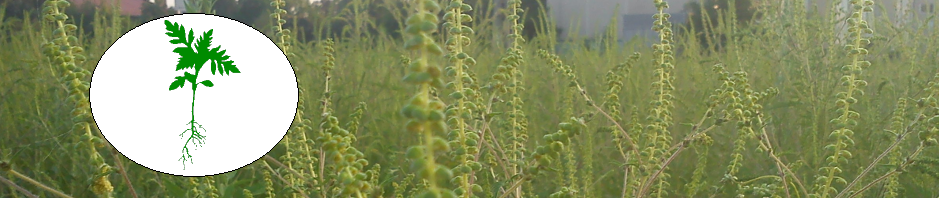
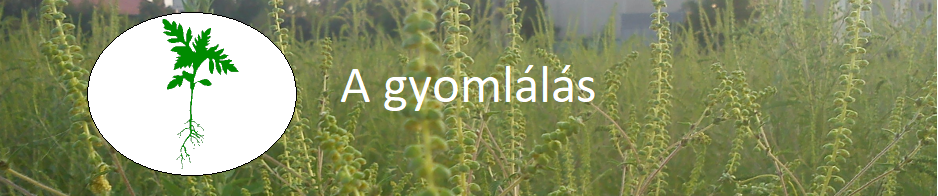
70 perces mentes-befejeztem

diff --git a/irtas.html b/irtas.html
@@ -1,48 +1,53 @@
 <!DOCTYPE html>
-<html lang="hu">
+ <html lang="hu">
 <head>
 <title>A parlagfűről</title>
-  <meta charset="utf-8"> 
- <link rel="stylesheet" href="parlagfu.css">  
+   <meta charset="utf-8"> 
+  <link rel="stylesheet" href="parlagfu.css">  
 
 </head>
 <body>
-   Előfordulása, Fejlődése, Terjedése, Parlagfű allergia, Megelőzés, Irtási módszerek
-   <table id="kulso">
-   
-             
-                   <tr>
-                       <td></td>
-                       <td></td>
-                       <td></td>
-                   </tr>
-                   <tr>
-                    <td></td>
-                    <td></td>
-                    <td></td>
-                </tr>
-                <tr>
-                    <td></td>
-                    <td></td>
-                    <td></td>
-                </tr>
-                <tr>
-                   <td></td>
-                   <td></td>
-                   <td></td>
-               </tr>
-               <tr>
-                   <td></td>
-                   <td></td>
-                   <td></td>
-               </tr>
-               <tr>
-                   <td></td>
-                   <td></td>
-                   <td></td>
-               </tr>
-               </table>
-       
+    
+    <table id="kulso">
+    
+              
+        <tr>
+            <td>
+                <table>
+                    <tr>
+                        <td colspan="6"><img src="cim.png" alt="cim" title="Kép a parlagfűről"></td>
+                        
+                        
 
- </body>
-</html>
+                    </tr>
+                    <tr>
+                        <td class="ketto">Előfordulása</td>
+                        <td class="ketto">Fejlődése</td>
+                        <td class="ketto">Terjedése</td>
+                        <td class="ketto">Parlagfű allergia</td>
+                        <td class="ketto">Megelőzés</td>
+                        <td class="ketto">Irtási módszerek</td>
+                    </tr>
+                    <tr>
+                        <td colspan="6">
+                            <h1>Irtási módszerek</h1>
+A parlagfű irtását folyamatosan kell végezni. A növényt a virágzása előtt kell elpusztítani, hogy ne szórhasson virágport, és ne érlelhessen termést.
+<ul>
+<li>Gyomlálás: A virágzó parlagfű irtását ne bízzuk gyerekekre, mert az erős pollenkoncentráció a levegőben kiválthatja a lappangó allergiát. Kerülni kell a virágzó növény közvetlen érintését, mert az is allergiás reakciót válthat ki. Ilyenkor a kézi irtást kesztyűben kell végezni.</li>
+    <li>Kaszálás: A környezetet és a költségeket is leginkább kímélő eljárás. A fiatal növényeket tömeges megjelenésük után, minél előbb tanácsos kaszálni. A talajszinten a gyökérnyaki résznél kell a növény szárát elvágni. Ez a legbiztosabb módszer, mivel a növények nem tudnak újrahajtani. Ha ezzel elkéstünk, az egyszeri kaszálás már nem eredményezi a parlagfű kiirtását, mert a növény az alacsonyan elhelyezkedő oldalrügyeiből 3-4 oldalhajtást nevel, és pár hét múlva újra virágba borul. Általában három kaszálás biztosít megfelelő eredményt. Ha a háromszori kaszálás nem valósítható meg, úgy az egyszeri kaszálás a virágzást közvetlenül megelőző időszakban a leghatékonyabb.</li>
+        <li>Vegyszeres gyomirtás: A parlagfű terjedése gyomirtó szerek használata nélkül nem állítható meg. Azonban vegyszeres kezeléseket csak olyan helyen szabad alkalmazni, ahol ez embereket és főként gyermekeket semmilyen módon nem veszélyeztet. Az irtás a korai növekedési fázisban a hatleveles állapotáig hatásos.</li>
+            <li>Életlehetőségeinek csökkentése: Mivel a parlagfű zárt növénytakaró mellett nem fejlődik, kiszorítható jól fejlődő növényzet telepítésével, és fűmagvetéssel, gyep telepítésével. A dús vegetáció mellett a parlagfű ki fog szorulni.</li>
+</ul>
+                            
+                        </td>
+
+                    </tr>
+                    <td>
+                 <img src="gyomlalas.png" title="Gyomlálás" id="gyom">
+            </td>
+        </tr>
+                
+        
+
+  </body>
+ </html>

diff --git a/parlagfu.html b/parlagfu.html
@@ -21,38 +21,41 @@
 
                     </tr>
                     <tr>
-                        <td class="2">Előfordulása</td>
-                        <td class="2">Fejlődése</td>
-                        <td class="2">Terjedése</td>
-                        <td class="2">Parlagfű allergia</td>
-                        <td class="2">Megelőzés</td>
-                        <td class="2"><a href="irtas.html">Irtási módszerek</a></td>
+                        <td class="ketto">Előfordulása</td>
+                        <td class="ketto">Fejlődése</td>
+                        <td class="ketto">Terjedése</td>
+                        <td class="ketto">Parlagfű allergia</td>
+                        <td class="ketto">Megelőzés</td>
+                        <td class="ketto"><a href="irtas.html">Irtási módszerek</a></td>
                     </tr>
                     <tr>
                         <td colspan="6">
-                            A növényről
+                            <h1>A növényről</h1>
                             A parlagfű (Ambrosia artemisiifolia) kétszikű, 20–140 cm magas, terebélyes, ágas egyéves
                             gyom. Központi egyenes, tompa négy élű szárral rendelkezik, amelynek sűrű oldalhajtásai
                             vannak. A talajhoz közeli néhány cm-es részen 2-3 elágazása is lehetséges. Magassága
                             változatos, a kifejlett növény zárt és magas növénykultúrában, kukorica- vagy
                             napraforgótáblákban a 150 cm magasságot is elérheti.
+                            <br>
                             Levelei 1 vagy 2-szeresen szárnyasan szeldeltek, kétoldalt sűrűn szőrözöttek. A szőrök a
                             levél fonákján hosszabbak. A levél színe sötétzöld, fonákja szürkészöld. A sárga színű 4–5
                             mm-es porzós fészkek, a legfelső hajtások végén, rövid kocsányon ülnek. A fészkek 10-15
                             virágot tartalmaznak.
+                            <br>
                             Virágpora súlyos allergiát okoz. A termős virágok a porzósok alatti legközelebbi levél
                             hónaljában találhatóak. Termése 2–4 mm hosszú, szürke, szív alakú. Egy fogazott burok
                             takarja a termő részt, amely az érés után a terméssel együtt lehullik. A virágok aránya a
                             növényzet sűrűsége szerint változik.
+                            <br>
                             Ritka állományban inkább a termős, sűrű állományban a porzós virágok dominálnak. Igénytelen.
                             Nagy növekedési, szaporodási erélye révén könnyen felülkerekedik más növényeken
                         </td>
 
                     </tr>
-                </table>
+                
             </td>
         </tr>
-                </table>
+                
         
 
   </body>

diff --git a/parlagfu.css b/parlagfu.css
@@ -12,8 +12,15 @@ a {
     left: 0;
     right: 0;
 }
-#2 {
+.ketto {
 background-color: black;
 height: 40px;
 color: white;
+}
+#gyom {
+    margin: left;
+    left: 5;
+    right: 5;
+    border: 1pt solid black;
+    float: left;
 }
